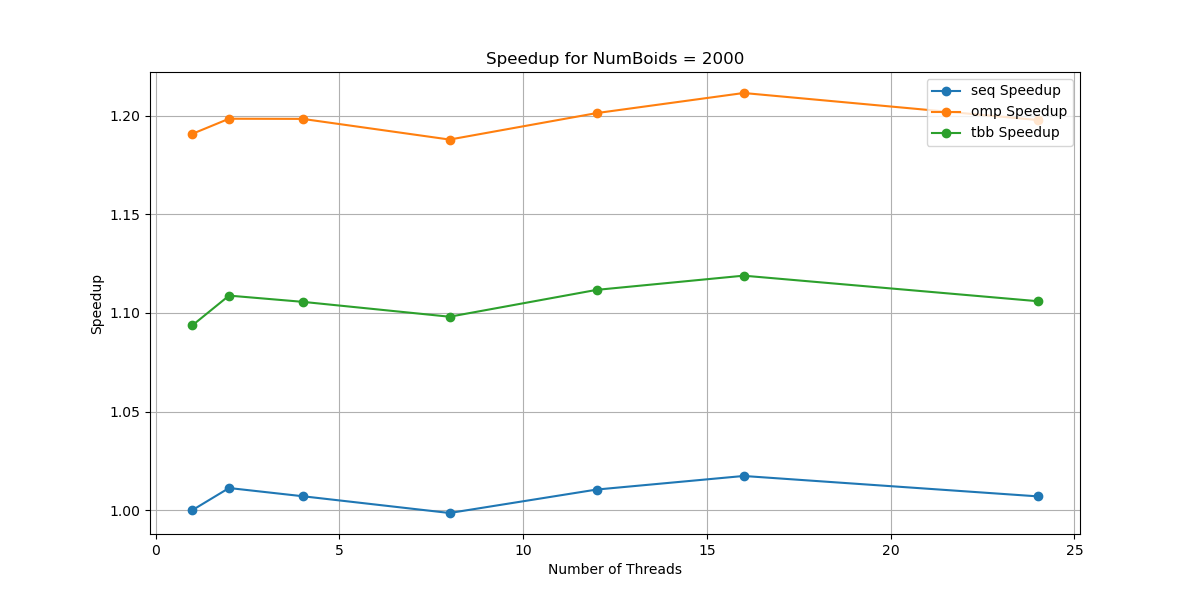
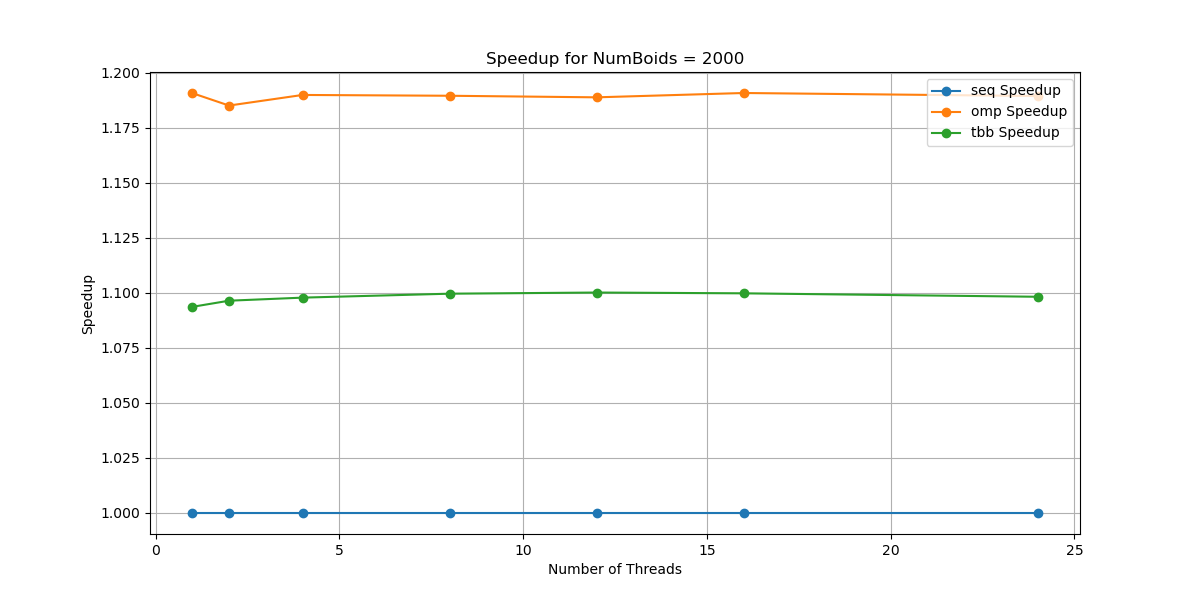
"results"

diff --git a/TPs/ParallelProgrammingTP/export_data_dense.py b/TPs/ParallelProgrammingTP/export_data_dense.py
@@ -1,0 +1,81 @@
+import os
+import re
+import pandas as pd
+
+# Function to extract information from a single log file
+def extract_benchmark_data(file_path):
+    with open(file_path, 'r') as file:
+        content = file.read()
+
+    # Extract the DenseMV and related values
+    densemv_pattern = r"DenseMV:([\d\.e\+-]+)"
+    omp_densemv_pattern = r"OMPDenseMV:([\d\.e\+-]+)"
+    omp_task_densemv_pattern = r"OMPTaskDenseMV:([\d\.e\+-]+)"
+    omp_tile_densemv_pattern = r"OMPTileDenseMV:([\d\.e\+-]+)"
+    tbb_densemv_pattern = r"TBBDenseMV:([\d\.e\+-]+)"
+    tbb_range_densemv_pattern = r"TBBRangeDenseMV:([\d\.e\+-]+)"
+    tbb_range2d_densemv_pattern = r"TBBRange2DDenseMV:([\d\.e\+-]+)"
+    
+    # Search for the DenseMV related values
+    densemv_value = re.search(densemv_pattern, content)
+    omp_densemv_value = re.search(omp_densemv_pattern, content)
+    omp_task_densemv_value = re.search(omp_task_densemv_pattern, content)
+    omp_tile_densemv_value = re.search(omp_tile_densemv_pattern, content)
+    tbb_densemv_value = re.search(tbb_densemv_pattern, content)
+    tbb_range_densemv_value = re.search(tbb_range_densemv_pattern, content)
+    tbb_range2d_densemv_value = re.search(tbb_range2d_densemv_pattern, content)
+    
+    # Extract the DenseMV values, if found
+    densemv_value = float(densemv_value.group(1)) if densemv_value else None
+    omp_densemv_value = float(omp_densemv_value.group(1)) if omp_densemv_value else None
+    omp_task_densemv_value = float(omp_task_densemv_value.group(1)) if omp_task_densemv_value else None
+    omp_tile_densemv_value = float(omp_tile_densemv_value.group(1)) if omp_tile_densemv_value else None
+    tbb_densemv_value = float(tbb_densemv_value.group(1)) if tbb_densemv_value else None
+    tbb_range_densemv_value = float(tbb_range_densemv_value.group(1)) if tbb_range_densemv_value else None
+    tbb_range2d_densemv_value = float(tbb_range2d_densemv_value.group(1)) if tbb_range2d_densemv_value else None
+    
+    # Extract the NX and NT values from the filename
+    file_name = os.path.basename(file_path)
+    nx_value = re.search(r'NX(\d+)', file_name)
+    nt_value = re.search(r'NT(\d+)', file_name)
+    
+    nx_value = int(nx_value.group(1)) if nx_value else None
+    nt_value = int(nt_value.group(1)) if nt_value else None
+    
+    return {
+        'nx': nx_value,
+        'nb_threads': nt_value,
+        'densemv': densemv_value,
+        'ompdensemv': omp_densemv_value,
+        'omptaskdensemv': omp_task_densemv_value,
+        'omptiledensemv': omp_tile_densemv_value,
+        'tbbdensemv': tbb_densemv_value,
+        'tbbrangedensemv': tbb_range_densemv_value,
+        'tbbrange2ddensemv': tbb_range2d_densemv_value
+    }
+
+# Function to process all log files in a directory with the specific format
+def process_benchmark_logs(directory):
+    benchmark_data = []
+    
+    for file_name in os.listdir(directory):
+        file_path = os.path.join(directory, file_name)
+        
+        # Process only files with the format 'log-NX{nx}-NT{np}'
+        if file_name.startswith('log-NX') and 'NT' in file_name:
+            data = extract_benchmark_data(file_path)
+            benchmark_data.append(data)
+    
+    # Convert the extracted data into a Pandas DataFrame
+    df = pd.DataFrame(benchmark_data)
+    return df
+
+# Example usage: Process all logs in a specific directory
+log_directory = '.'  # Replace with your directory
+df = process_benchmark_logs(log_directory)
+
+# Print the resulting DataFrame
+print(df)
+
+# Optionally, save the DataFrame to CSV for further analysis
+df.to_csv('results_densemv.csv', index=False)

diff --git a/TPs/ParallelProgrammingTP/benchmark_densemv.py b/TPs/ParallelProgrammingTP/benchmark_densemv.py
@@ -1,0 +1,65 @@
+import pandas as pd
+import matplotlib.pyplot as plt
+import numpy as np
+import os
+
+df = pd.read_csv("results_densemv.csv")
+output_dir = "results_densemv"
+os.makedirs(output_dir, exist_ok=True)
+
+print(df['densemv'])
+# Techniques to evaluate
+techniques = [
+    'densemv','ompdensemv', 'omptaskdensemv', 'omptiledensemv',
+    'tbbdensemv', 'tbbrangedensemv', 'tbbrange2ddensemv'
+]
+
+# Step 2: Add derived metrics for each technique
+for tech in techniques:
+    df[f'{tech}_speedup'] = df['densemv'] / df[tech]
+    df[f'{tech}_efficiency'] = df[f'{tech}_speedup'] / df['nb_threads']
+
+# Group the data by 'nx'
+grouped = df.groupby('nx')
+
+# Step 3: Generate plots for each nx
+for nx, group in grouped:
+    plt.figure(figsize=(12, 6))
+    
+    # Plot execution time
+    for tech in techniques:
+        plt.plot(group['nb_threads'], group[tech], marker='o', label=tech)
+
+    plt.xlabel('Number of Threads')
+    plt.ylabel('Execution Time (s)')
+    plt.title(f'Execution Time for nx = {nx}')
+    plt.legend()
+    plt.grid()
+    plt.savefig(os.path.join(output_dir,f'densemv_execution_time_nx_{nx}.png'))
+    plt.show()
+
+    # Plot speedup
+    plt.figure(figsize=(12, 6))
+    for tech in techniques:
+        plt.plot(group['nb_threads'], group[f'{tech}_speedup'], marker='o', label=f'{tech} Speedup')
+
+    plt.xlabel('Number of Threads')
+    plt.ylabel('Speedup')
+    plt.title(f'Speedup for nx = {nx}')
+    plt.legend()
+    plt.grid()
+    plt.savefig(os.path.join(output_dir,f'densemv_speedup_nx_{nx}.png'))
+    plt.show()
+
+    # Plot efficiency
+    plt.figure(figsize=(12, 6))
+    for tech in techniques:
+        plt.plot(group['nb_threads'], group[f'{tech}_efficiency'], marker='o', label=f'{tech} Efficiency')
+
+    plt.xlabel('Number of Threads')
+    plt.ylabel('Efficiency')
+    plt.title(f'Efficiency for nx = {nx}')
+    plt.legend()
+    plt.grid()
+    plt.savefig(os.path.join(output_dir,f'densemv_efficiency_nx_{nx}.png'))
+    plt.show()

diff --git a/TPs/ParallelProgrammingTP/benchmark_spmv.py b/TPs/ParallelProgrammingTP/benchmark_spmv.py
@@ -1,0 +1,52 @@
+import pandas as pd
+import matplotlib.pyplot as plt
+import os
+
+df = pd.read_csv("results_spmv.csv")
+output_dir = "results_spmv"
+os.makedirs(output_dir, exist_ok=True)
+
+df['Speedup'] = df['SpMV_time'] / df['MPI_SpMV_time']
+df['Efficiency'] = df['Speedup'] / df['np']
+
+
+plt.figure(figsize=(12, 6))
+for nx in df['nx'].unique():
+    subset = df[df['nx'] == nx]
+    plt.plot(subset['np'], subset['MPI_SpMV_time'], marker='o', label=f'MPI Time (nx={nx})')
+
+plt.xlabel('Number of Processors (np)')
+plt.ylabel('Execution Time (s)')
+plt.title('Execution Time vs Number of Processors')
+plt.legend()
+plt.grid()
+plt.savefig(os.path.join(output_dir,'execution_time.png'))
+plt.show()
+
+# Step 4: Plot speedup
+plt.figure(figsize=(12, 6))
+for nx in df['nx'].unique():
+    subset = df[df['nx'] == nx]
+    plt.plot(subset['np'], subset['Speedup'], marker='o', label=f'Speedup (nx={nx})')
+
+plt.xlabel('Number of Processors (np)')
+plt.ylabel('Speedup')
+plt.title('Speedup vs Number of Processors')
+plt.legend()
+plt.grid()
+plt.savefig(os.path.join(output_dir,'speedup.png'))
+plt.show()
+
+# Step 5: Plot efficiency
+plt.figure(figsize=(12, 6))
+for nx in df['nx'].unique():
+    subset = df[df['nx'] == nx]
+    plt.plot(subset['np'], subset['Efficiency'], marker='o', label=f'Efficiency (nx={nx})')
+
+plt.xlabel('Number of Processors (np)')
+plt.ylabel('Efficiency')
+plt.title('Efficiency vs Number of Processors')
+plt.legend()
+plt.grid()
+plt.savefig(os.path.join(output_dir,'efficiency.png'))
+plt.show()

diff --git a/Projects/LiveOfBoids/benchmark_boids.py b/Projects/LiveOfBoids/benchmark_boids.py
@@ -9,16 +9,16 @@ os.makedirs(output_dir, exist_ok=True)
 
 # Techniques to evaluate
 modes = df['Mode'].unique()
+baseline = df[df['Mode'] == "seq"]
+df = df.merge(
+    baseline[['NumBoids', 'nbThreads', 'Time']].rename(columns={'Time': 'seq_baseline'}),
+    on=['NumBoids', 'nbThreads'], 
+    how='left'
+    )
 
 # Derived metrics: Calculate speedup and efficiency for each mode
 for mode in modes:
-    baseline = df[(df['Mode'] == "seq") & (df['nbThreads'] == 1)]
-    df = df.merge(
-        baseline[['NumBoids', 'Time']].rename(columns={'Time': f'{mode}_baseline'}),
-        on='NumBoids',
-        how='left'
-    )
-    df[f'{mode}_speedup'] = df[f'{mode}_baseline'] / df['Time']
+    df[f'{mode}_speedup'] = df['seq_baseline'] / df[f'Time']
     df[f'{mode}_efficiency'] = df[f'{mode}_speedup'] / df['nbThreads']
 
 # Group the data by NumBoids

diff --git a/TPs/ParallelProgrammingTP/export_data_spmv.py b/TPs/ParallelProgrammingTP/export_data_spmv.py
@@ -29,10 +29,10 @@ def extract_benchmark_data(file_path):
     
     # Return the extracted data as a dictionary
     return {
-        'NX': nx_value,
-        'NPI': np_value,
-        'MPI_SpMV': mpi_spmv_value,
-        'SpMV': spmv_value
+        'nx': nx_value,
+        'np': np_value,
+        'MPI_SpMV_time': mpi_spmv_value,
+        'SpMV_time': spmv_value
     }
 
 # Function to process all log files in a directory with the specific format
